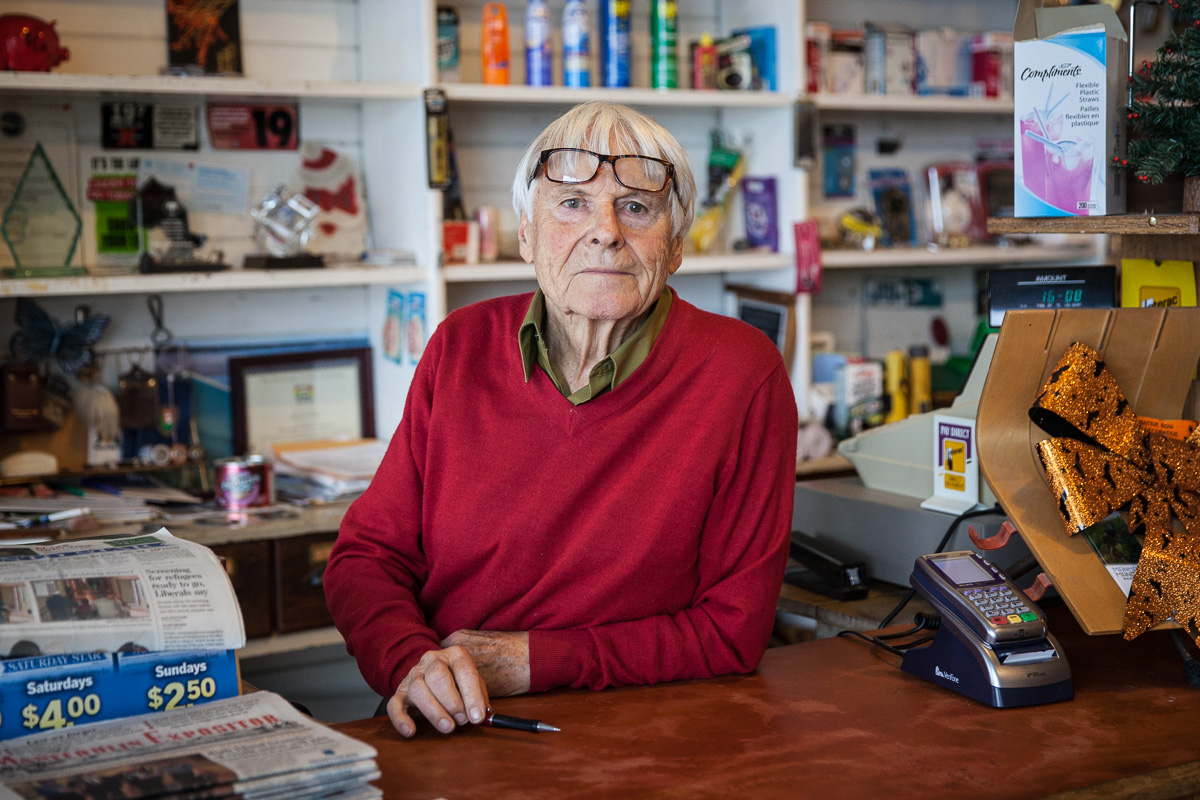
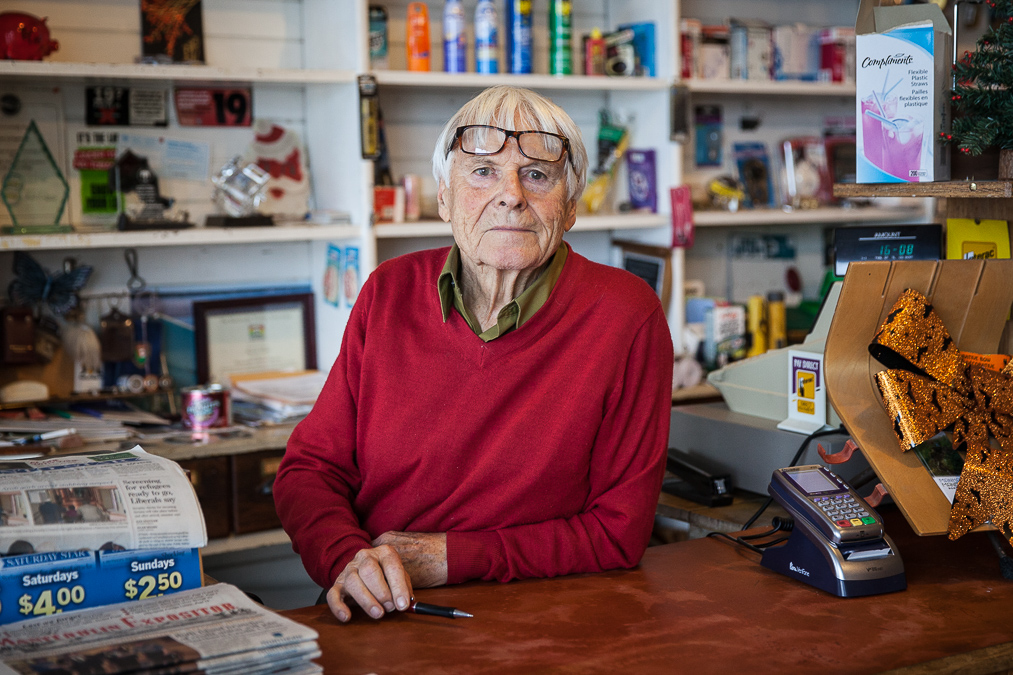
new images

diff --git a/css/projects.css b/css/projects.css
@@ -127,8 +127,7 @@ hr {
 }
 
 .item img {
-    height: auto;
-    width: 90%;
+   height: 100%;
     margin-left: auto;
     margin-right: auto;
     padding-top: 5px;
